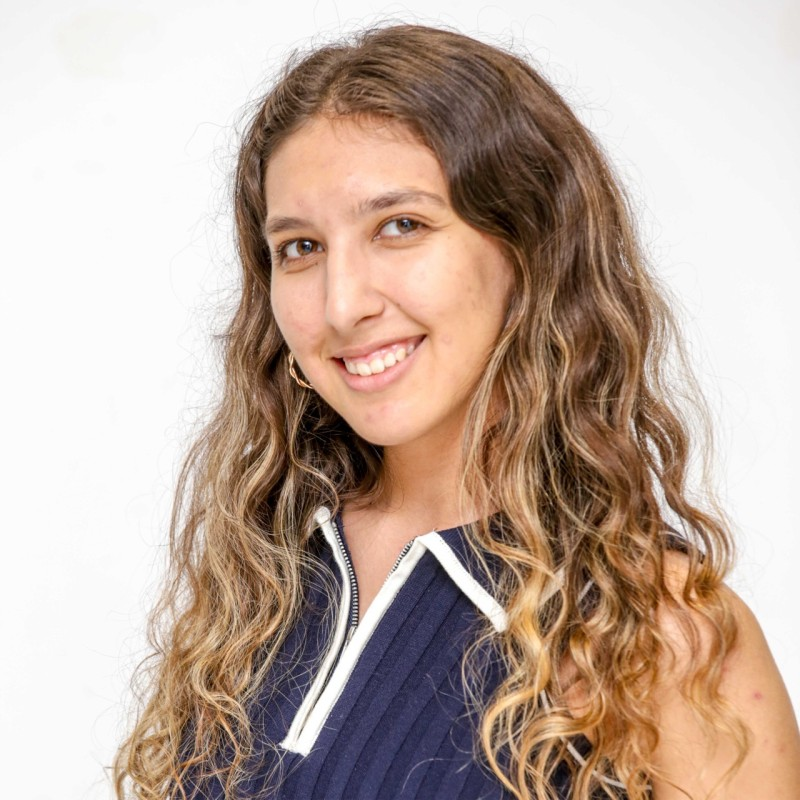
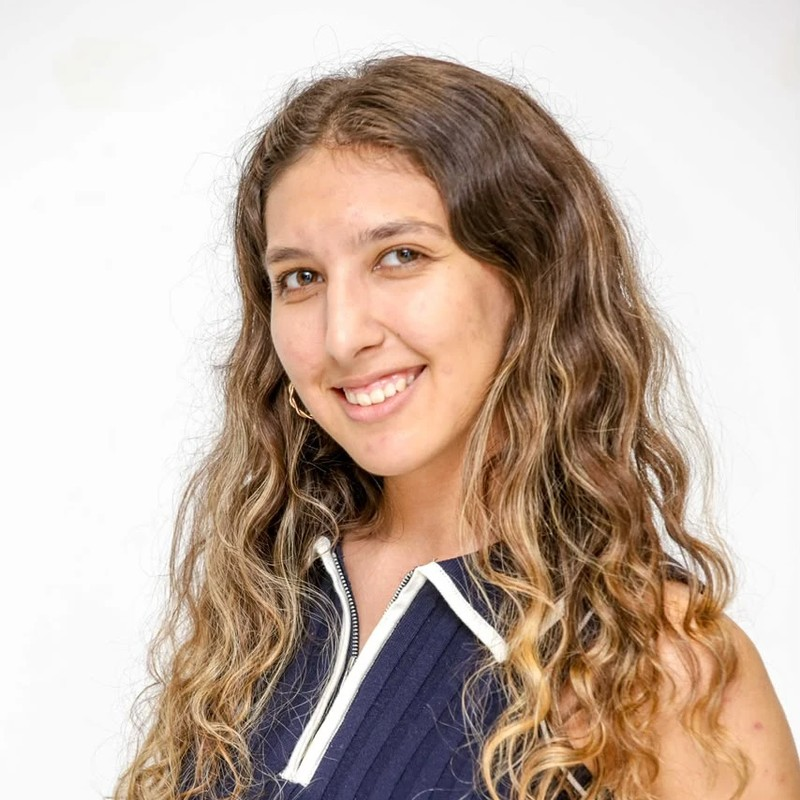
feat(equipo): fotos nuevas de Zoë y Francesca y diéresis en el nombre de Zoë
- Fotos recortadas a cuadrado sobre la cara (800x800).
- Zoe Velazquez pasa a Zoë Velazquez en el seed (el slug no cambia).

diff --git a/prisma/seed-data/team.ts b/prisma/seed-data/team.ts
@@ -44,7 +44,7 @@ export const founders: SeedTeamMember[] = [
   },
   {
     slug: "zoe-velazquez",
-    name: "Zoe Velazquez",
+    name: "Zoë Velazquez",
     links: {
       linkedin: "https://www.linkedin.com/in/zoe-velazquez-zorzi/",
       linkedinPhoto: "/equipo/linkedin/zoe.jpeg",
